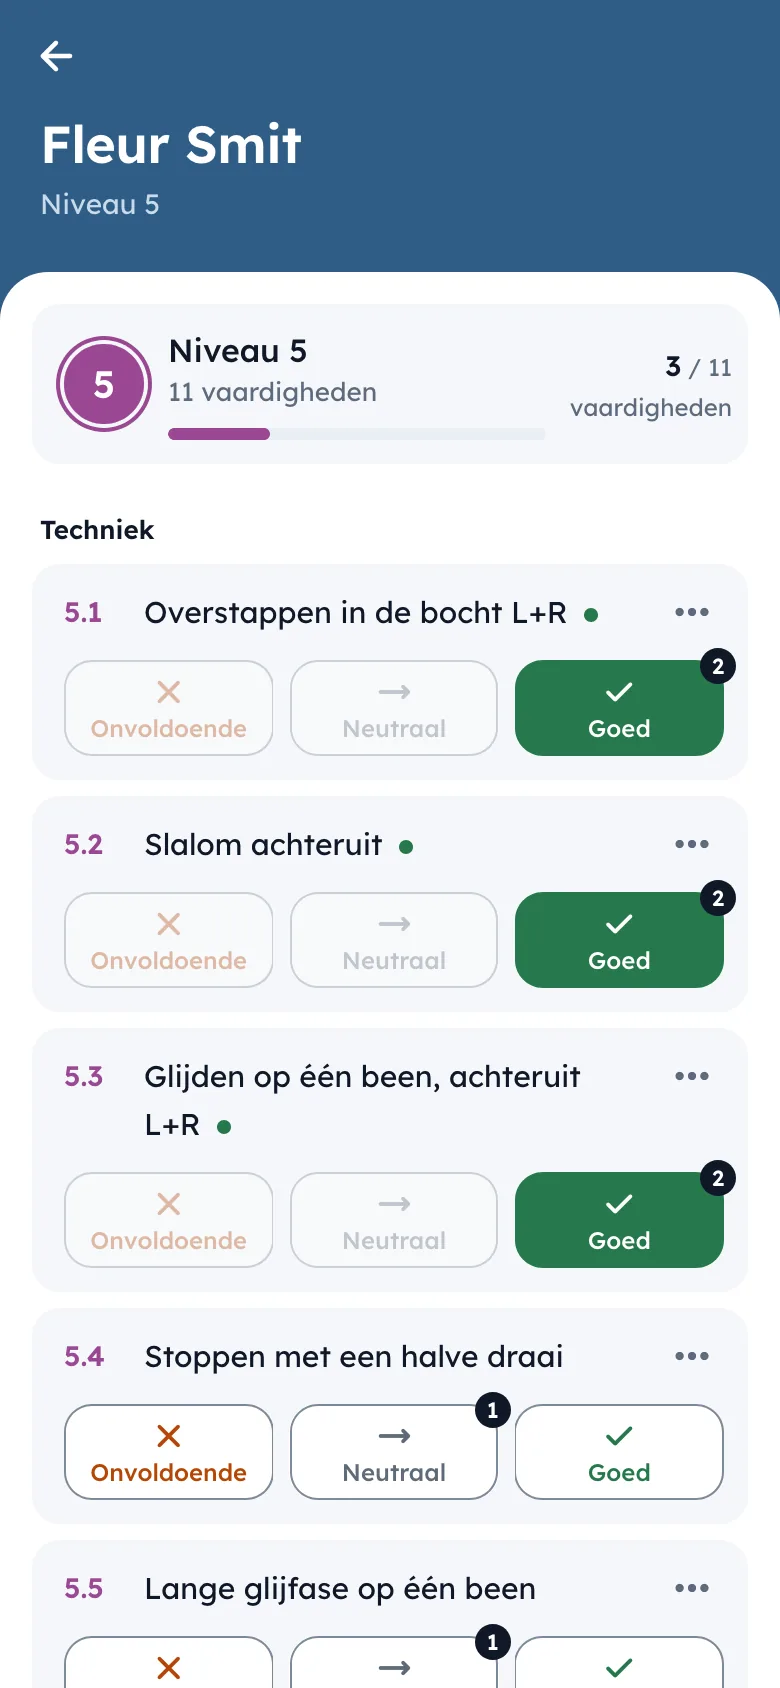
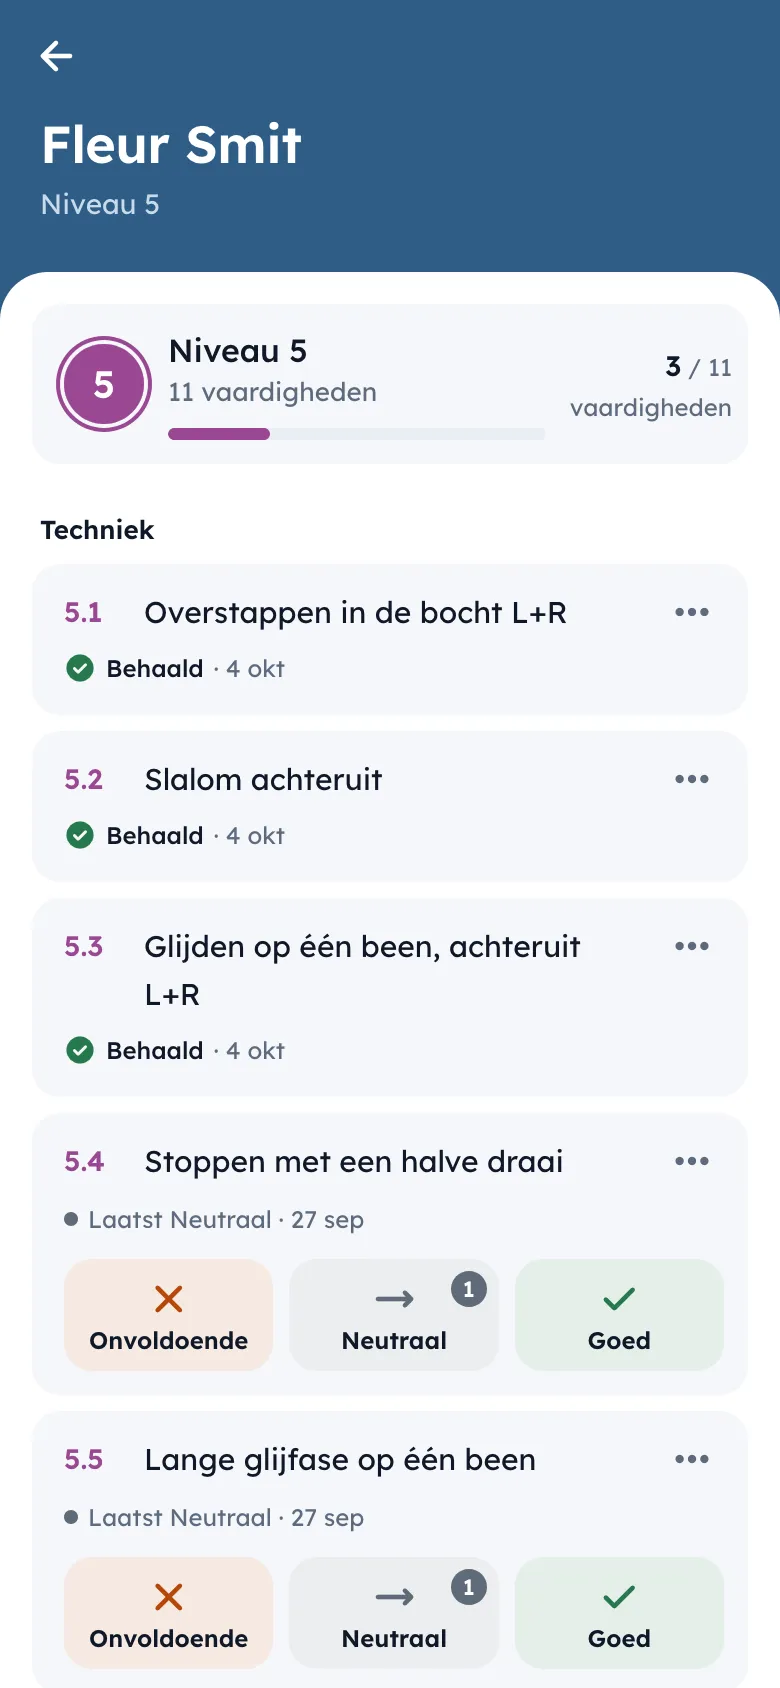
update screenshots

diff --git a/index.html b/index.html
@@ -113,8 +113,10 @@
           <div class="prose">
             <p>
               Trainers kiezen een vaardigheid en zien de hele groep onder elkaar.
-              Per leerling tikken ze onvoldoende, neutraal of goed aan. De
-              beoordeling wordt direct opgeslagen en is eenvoudig te herstellen.
+              Per leerling tikken ze onvoldoende, neutraal of goed. Elke tik telt
+              als beoordeling en wordt direct opgeslagen; een vergissing maak je
+              meteen ongedaan. De knoppen tellen mee, en onder de naam staat de
+              laatste beoordeling.
               Een leerling afzonderlijk beoordelen kan ook.
             </p>
             <p>
@@ -134,7 +136,7 @@
                   width="390"
                   height="844"
                   loading="lazy"
-                  alt="Groepsbeoordeling van een vaardigheid op niveau 5: per leerling knoppen voor onvoldoende, neutraal en goed."
+                  alt="Groepsbeoordeling van een vaardigheid op niveau 5: per leerling knoppen voor onvoldoende, neutraal en goed, met de laatste beoordeling onder de naam."
                 />
               </div>
             </div>
@@ -151,7 +153,7 @@
                   width="390"
                   height="844"
                   loading="lazy"
-                  alt="Eén leerling op niveau 5: elke vaardigheid met knoppen voor onvoldoende, neutraal en goed."
+                  alt="Eén leerling op niveau 5: elke vaardigheid met knoppen voor onvoldoende, neutraal en goed die tellen hoe vaak ze zijn gegeven."
                 />
               </div>
             </div>

diff --git a/CLAUDE.md b/CLAUDE.md
@@ -4,15 +4,15 @@ Public marketing site for Stride: plain HTML and CSS, no build step (see `README
 
 ## New app screenshots
 
-When the site needs new or updated screenshots of the app, run the app locally and capture them yourself:
+Never make screenshots by hand. Use the tool in the app repo, which gives the same result every run:
 
-1. **Backend**, from `~/projects/duzign/stride/backend`:
-   `./mvnw spring-boot:run -Dspring-boot.run.profiles=development,local-auth`
-   The `development` profile connects to the `stride_demo` database (Homebrew PostgreSQL 18, `localhost:5432`, role `stride`/`stride`), which holds fictional demo data only. Don't add the `seed` profile and never point it at production data. Run it in the background; ready when `http://localhost:8080/actuator/health` is UP.
-2. **Frontend**, from `~/projects/duzign/stride/frontend`: `npm start` (background), serves `http://localhost:4200` and proxies `/api` to the backend.
-3. **Capture** in mobile portrait: viewport 390×844 at device scale factor 2 (files are 780×1688), in **both light and dark mode**. Switch theme with `localStorage.setItem('stride-theme', 'light' | 'dark')` and reload (or emulate `prefers-color-scheme`).
-   - Browser: drive the installed Firefox (`/Applications/Firefox.app`) headless with `puppeteer-core` (`browser: 'firefox'`, install with `PUPPETEER_SKIP_DOWNLOAD=1` in the scratchpad). There's no Chrome, and Playwright's Chromium download stalls. Wait for `load` plus a few seconds, not `networkidle` (the dev server's live-reload socket never settles), and inject `*{scrollbar-width:none}` before each shot.
-   - Links in the app (passport share sheet) use `location.origin`. To show `https://dijc.strideapp.nl/...` instead of `localhost:4200`, run a small HTTPS proxy on 443 (self-signed cert) to `localhost:4200` with `Host: localhost:4200`, and launch Firefox with `acceptInsecureCerts: true` and pref `network.dns.localDomains: 'dijc.strideapp.nl'`.
-   - Demo data can be shaped through the API (local-auth needs no token), e.g. passport consent/links (`PUT /api/passports/{id}/consent`, `PUT …/link`) or ratings (`POST /api/ratings`; the daily limit is off in development).
-4. **Save** as WebP in `img/`: `name.webp` (light) and `name-dark.webp` (dark); reference in `index.html` with `src="img/name.webp"` and `data-dark="img/name-dark.webp"`.
-5. **Stop backend and frontend** once the screenshots are taken: kill both processes (ports 8080 and 4200) and check that nothing is still listening.
+```bash
+~/projects/duzign/stride/tools/site-screenshots/run.sh              # all shots
+~/projects/duzign/stride/tools/site-screenshots/run.sh paspoort     # only these
+```
+
+It restores a fixed demo database (`fixture.sql`, fictional data) into `stride_screenshots`, starts backend and frontend, captures every shot in mobile portrait (390×844 at 2×) in light and dark, writes `img/<name>.webp` and `img/<name>-dark.webp`, then stops backend and frontend again. Ports 8080, 4200 and 443 must be free, so stop a running backend/frontend first.
+
+- A new screen: add it to `SHOTS` in `shoot.mjs`, then reference it in `index.html` with `src="img/name.webp"` and `data-dark="img/name-dark.webp"`.
+- Different data: change `fixture.sql` as described in the tool's `README.md`. Never use production data.
+- The tool lives in the private app repo on purpose: this repo is public and GitHub Pages serves every file in it.
